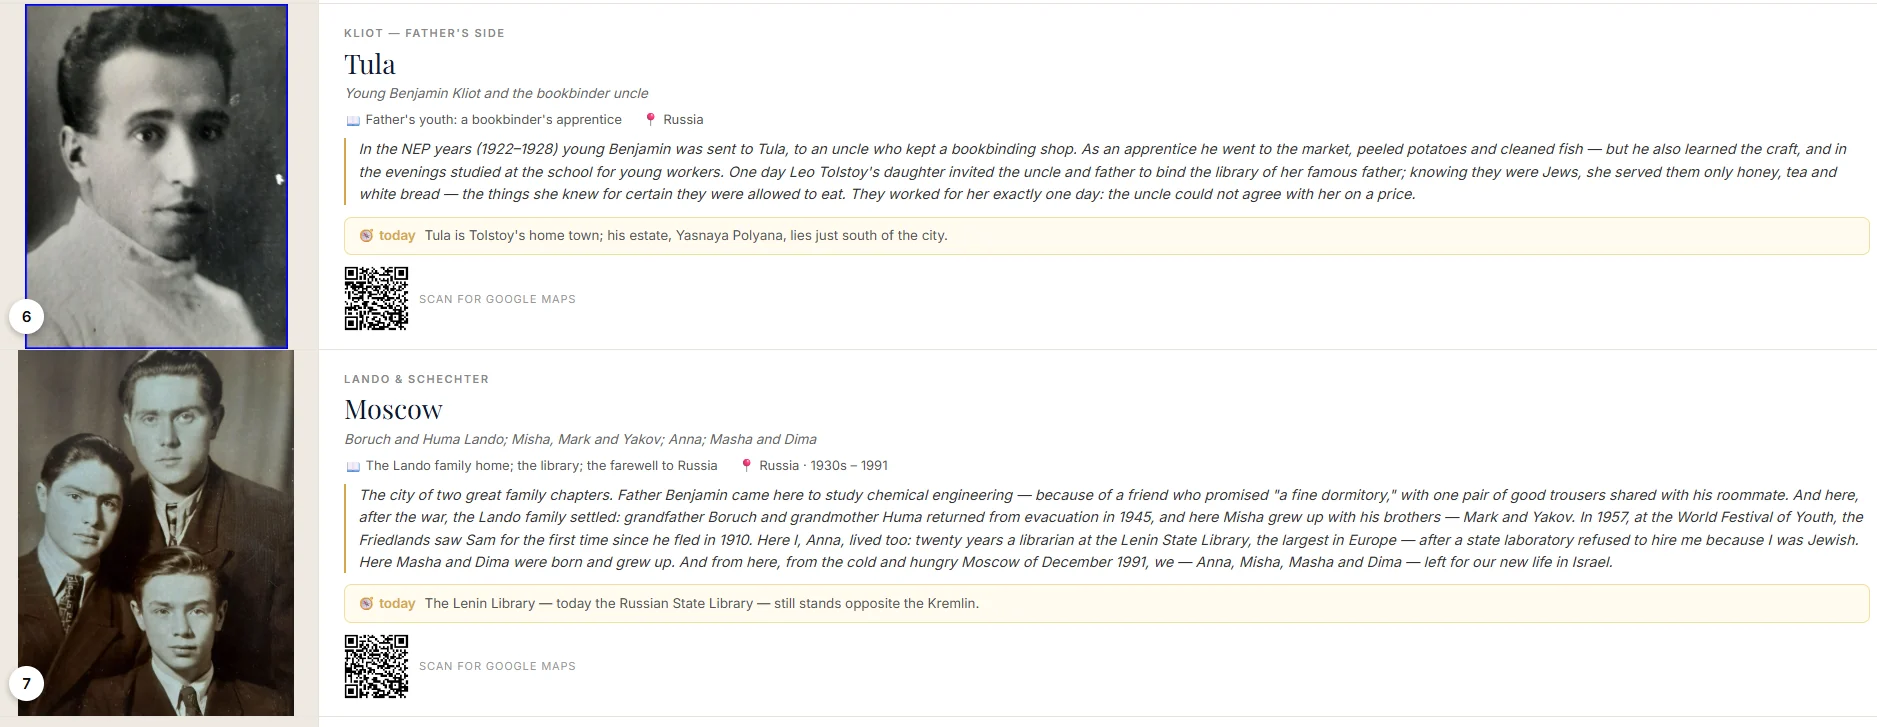
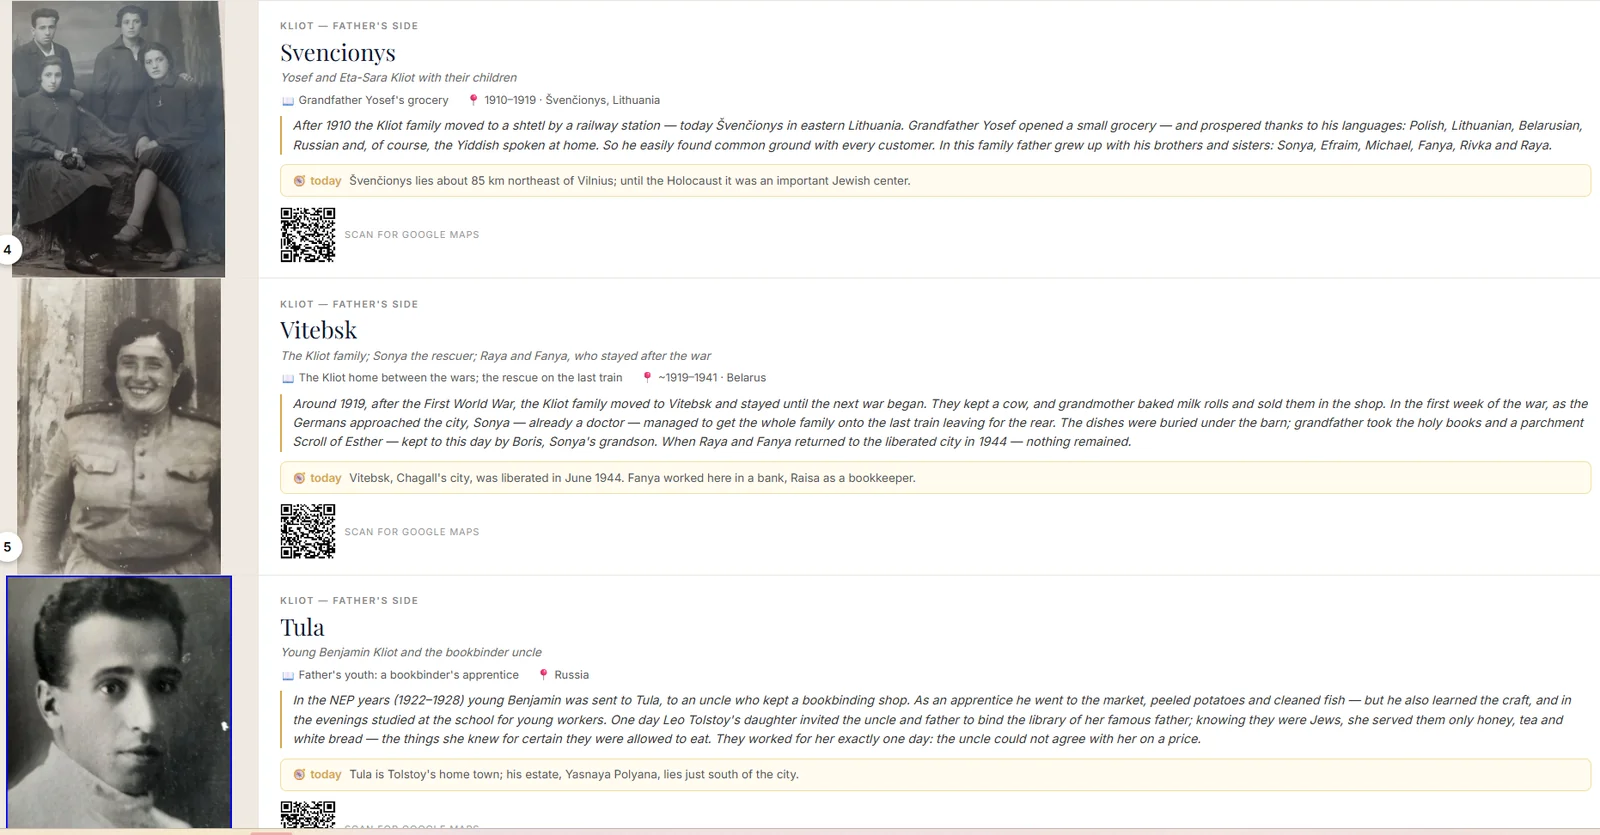
Update site 31/07/2026  8:05:44.11

Changed region(s): [[0.0, 0.0, 1.0, 1.0], [0.9688, 0.9078, 1.0, 0.9381]]

diff --git a/familystorymap/index.html b/familystorymap/index.html
@@ -95,13 +95,13 @@
     .stat-label { font-size:13px; color:var(--warm-muted); }
     @media(max-width:820px){ .stat-bar{ grid-template-columns:repeat(2,1fr); } }
 
-    /* SHOWCASE GALLERY — one column, every shot at full width (or its natural
-       size, whichever is smaller). No fixed aspect boxes and no cropping, so a
+    /* SHOWCASE GALLERY — one column, every shot at full width (or its own captured
+       size, whichever is smaller — screenshots are never upscaled, so nothing blurs). No fixed aspect boxes and no cropping, so a
        tall map and a wide tree each render as large as they honestly can. */
     .shots { display:grid; grid-template-columns:1fr; gap:30px; margin-top:26px; }
     .shot-item { display:flex; flex-direction:column; }
     .shot-frame { background:#0a0b0e; border:1px solid var(--dark-border); border-radius:14px; padding:16px; display:flex; align-items:center; justify-content:center; box-shadow:0 16px 44px rgba(0,0,0,0.55); }
-    .shot-frame img { width:100%; height:auto; display:block; border-radius:6px; }
+    .shot-frame img { max-width:100%; height:auto; display:block; border-radius:6px; }
     .shot-cap { font-size:14px; color:var(--dark-muted); margin-top:13px; font-weight:400; line-height:1.6; max-width:80ch; }
     .shot-cap b { color:var(--dark-text); font-weight:600; }
 
@@ -216,8 +216,8 @@
         <a class="btn-gold" href="#get-started">Request a sample map</a>
         <a class="btn-ghost-dark" href="#how">See how it works</a>
       </div>
-      <img class="hero-shot" src="../assets/fsm-hero-splash.webp" alt="The opening screen of a Family Story Map: the family photograph behind a trilingual welcome in Hebrew, Russian and English" loading="lazy"/>
-      <p class="hero-disc">Above: the opening screen of the first Family Story Map, built from one family&rsquo;s memoir &mdash; four branches, from Bobruisk and Vitebsk through Tambov, the Urals and Odessa to Rehovot and Jerusalem. Each reader chooses their language and enters the story. Shown with the family&rsquo;s permission; the map itself is private.</p>
+      <img class="hero-shot" src="../assets/fsm-hero-splash.webp" alt="The opening screen of a Family Story Map: the family photograph behind a welcome in English, Hebrew and Russian" loading="lazy"/>
+      <p class="hero-disc">Above: the opening screen of the first Family Story Map, built from one family&rsquo;s memoir &mdash; four branches, from Bobruisk and Vitebsk through Tambov, the Urals and Odessa to Rehovot and Jerusalem. Each reader picks their own language and enters the story. Shown with the family&rsquo;s permission; the map itself is private.</p>
     </div>
   </div>
 </section>
@@ -243,7 +243,7 @@
     <div class="shots">
 
       <div class="shot-item">
-        <div class="shot-frame"><img src="../assets/fsm-map-path.webp" alt="The family's journey drawn as one numbered path from Belarus and Lithuania through Russia and Ukraine down to Israel" loading="lazy"/></div>
+        <div class="shot-frame"><img src="../assets/fsm-map-path.webp" alt="The whole family map: a numbered path from Belarus and Lithuania through Russia and Ukraine down to Israel, with region filters along the bottom" loading="lazy"/></div>
         <p class="shot-cap"><b>The whole journey as one path.</b> One tap numbers the stops in the order they happened, from Belarus and Lithuania through Russia and Ukraine down to Israel. The regions along the bottom filter the map to one chapter at a time.</p>
       </div>
 
@@ -255,12 +255,12 @@
       </div>
 
       <div class="shot-item">
-        <div class="shot-frame"><img src="../assets/fsm-family-tree.webp" alt="The family tree across the generations, with each person's name in three languages and a pin linking them to the map" loading="lazy"/></div>
+        <div class="shot-frame"><img src="../assets/fsm-family-tree.webp" alt="The family tree: generations of three branches, each person with their name in three languages and a pin linking them to the map" loading="lazy"/></div>
         <p class="shot-cap"><b>A family tree wired into the map.</b> Generations of three branches, every name carried in all three languages. Click a person and their journey draws itself on the map &mdash; the pin on each card is the link between the two.</p>
       </div>
 
       <div class="shot-item">
-        <div class="shot-frame"><img src="../assets/fsm-pdf-book.webp" alt="Two pages of the exported PDF: each place with its archive photograph, the story in full, and a QR code that opens the location" loading="lazy"/></div>
+        <div class="shot-frame"><img src="../assets/fsm-pdf-book.webp" alt="The exported PDF: each place laid out with its archive photograph shown whole, the story in full, and a QR code that opens the location" loading="lazy"/></div>
         <p class="shot-cap"><b>And it prints as a book.</b> Any selection of places exports to a PDF laid out place by place &mdash; the photograph, the story in the family&rsquo;s own words, and a QR code that opens the location on a map. One to keep on the shelf, one to hand to a relative who will never open a link.</p>
       </div>
 

diff --git a/index.html b/index.html
@@ -278,7 +278,7 @@
         </div>
         <div class="area-media">
           <span class="badge new">New</span>
-          <a href="/familystorymap/"><img class="shot" src="assets/demos/familystorymap.webp" alt="A Family Story Map — a century of one family's journeys on a single map" loading="lazy" decoding="async" width="820" height="392"></a>
+          <a href="/familystorymap/"><img class="shot" src="assets/demos/familystorymap.webp" alt="A Family Story Map — the opening screen of one family’s interactive story map" loading="lazy" decoding="async" width="820" height="392"></a>
         </div>
         <div class="area-body">
           <div class="tag-en">Every place a family lived, fled and rebuilt, on one map &mdash; with their own photographs, the story behind each place, and a family tree linked to the map.</div>
